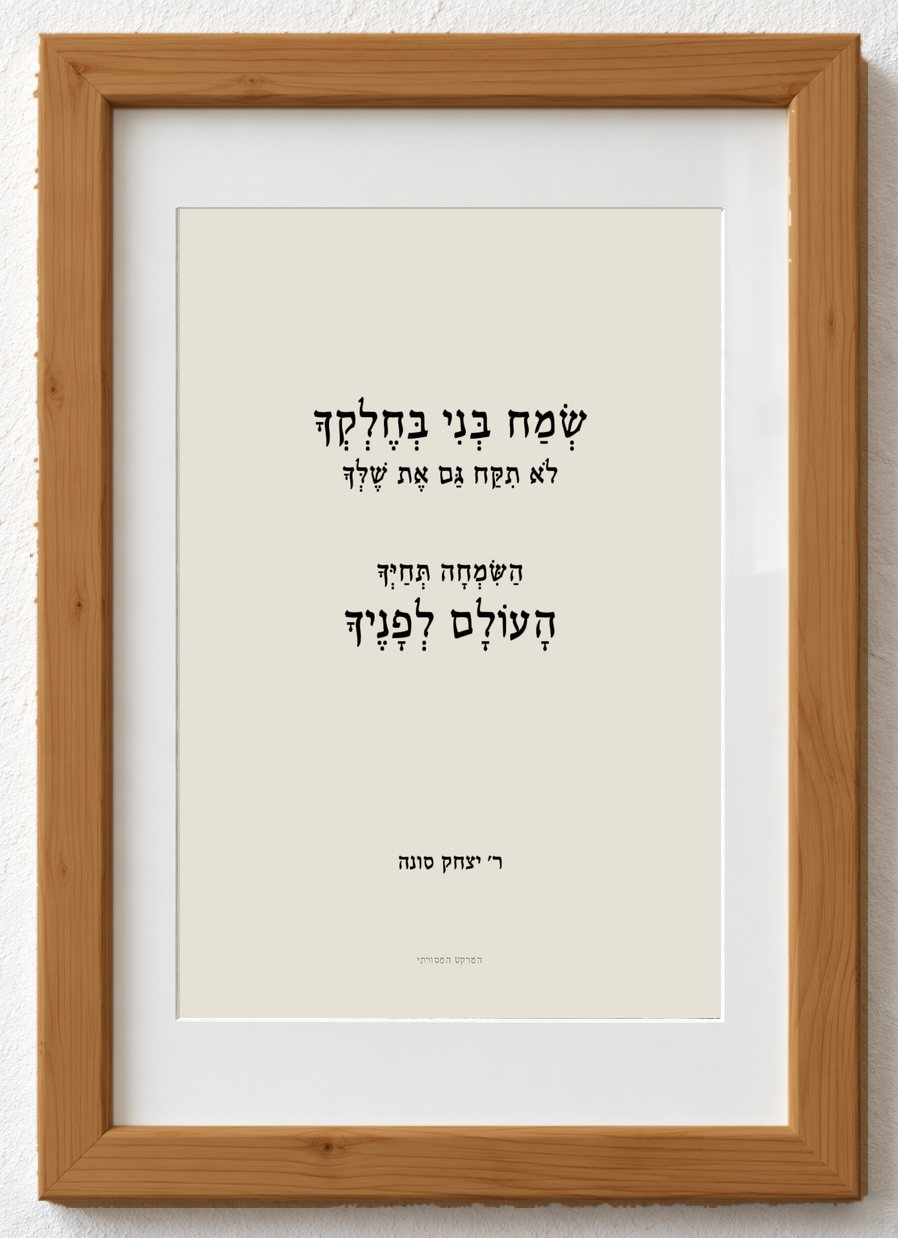
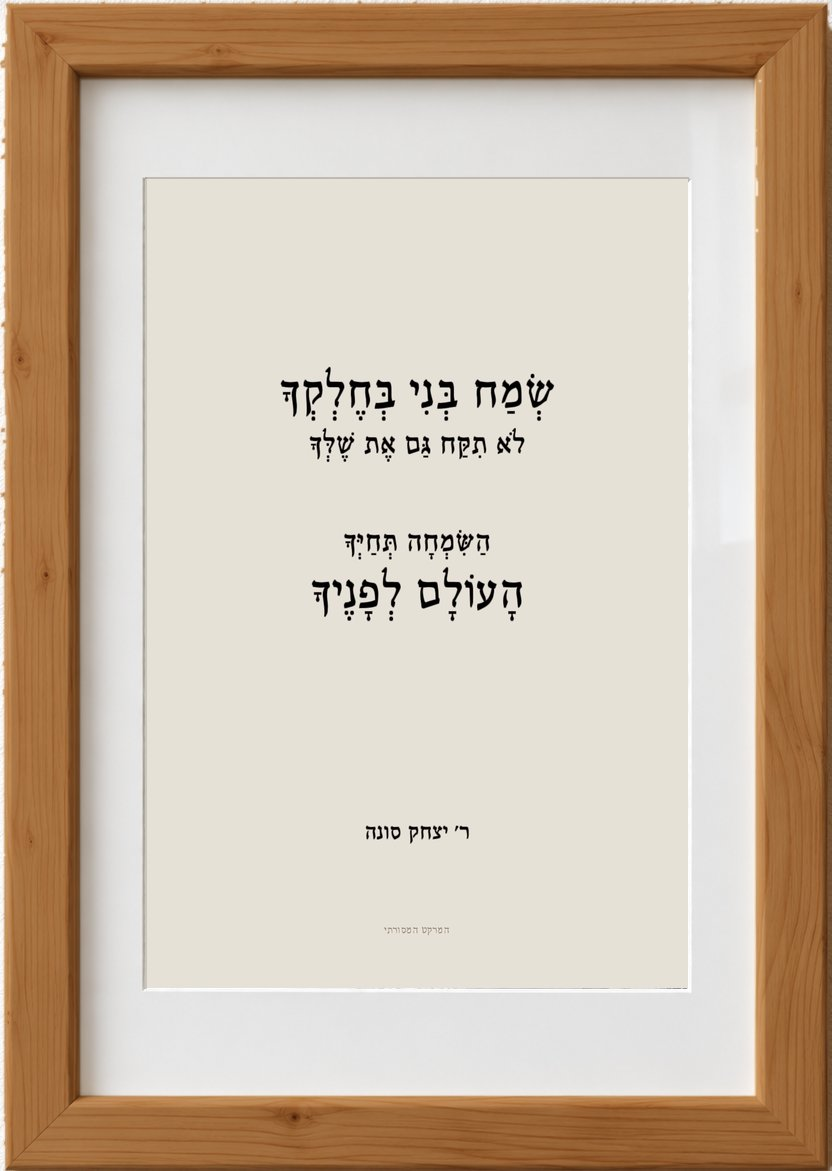
Shop: frames cut clean from the wall, look finished in light and dark mode
Claude-Session: https://claude.ai/code/session_01QSLAfrMeBEq27mRa4tKpiz

diff --git a/shop/index.html b/shop/index.html
@@ -3,7 +3,6 @@
 <head>
 <meta charset="utf-8">
 <meta name="viewport" content="width=device-width,initial-scale=1,viewport-fit=cover">
-<meta name="color-scheme" content="only light">
 <meta name="robots" content="noindex">
 <title>המרקט המסורתי</title>
 <link rel="preconnect" href="https://fonts.googleapis.com">
@@ -17,8 +16,14 @@
   --ok:#3E6B4A;
   --display:'Keter YG','Frank Ruhl Libre',serif;
   --body:'Assistant','Arial Hebrew',Arial,sans-serif;
-  color-scheme:only light; /* חנות בהירה בלבד: ההדפסים נראים כמו על קיר אמיתי */
+  color-scheme:light;
 }
+@media (prefers-color-scheme:dark){:root:not([data-theme="light"]){
+  --paper:#1C1A17; --wall:#24211D; --ink:#EFE8DC; --ink-soft:#B3A895; --sand:#C2A77C;
+  --line:rgba(239,232,220,.14); --card:#26231F; --accent:#D2B585; --ok:#8DBB97; color-scheme:dark}}
+:root[data-theme="dark"]{
+  --paper:#1C1A17; --wall:#24211D; --ink:#EFE8DC; --ink-soft:#B3A895; --sand:#C2A77C;
+  --line:rgba(239,232,220,.14); --card:#26231F; --accent:#D2B585; --ok:#8DBB97; color-scheme:dark}
 *{box-sizing:border-box}
 body{background:var(--paper);color:var(--ink);font-family:var(--body);font-size:17px;line-height:1.6;direction:rtl;font-synthesis:none}
 body::before{content:"";position:fixed;inset:0 0 auto;height:env(safe-area-inset-top,0px);z-index:10;background:var(--paper)}
@@ -64,8 +69,8 @@ nav a:hover{color:var(--ink)}
 .sec-h p{margin:0;color:var(--ink-soft)}
 .grid{display:grid;grid-template-columns:repeat(3,minmax(0,1fr));gap:40px 28px}
 .item{text-decoration:none;display:flex;flex-direction:column;gap:12px}
-.item .ph{background:var(--wall);overflow:hidden}
-.item img{width:100%;aspect-ratio:898/1238;object-fit:cover;display:block;transition:transform .5s ease}
+.item .ph{overflow:hidden}
+.item img{width:100%;aspect-ratio:832/1171;object-fit:cover;display:block;transition:transform .5s ease}
 .item:hover img{transform:scale(1.03)}
 .item h3{font-size:28px;line-height:1.2}
 .item .sub{color:var(--ink-soft);font-size:15px;margin-top:-6px}
@@ -75,10 +80,10 @@ nav a:hover{color:var(--ink)}
 /* עמוד מוצר */
 .pp{display:grid;grid-template-columns:1.1fr 1fr;gap:48px;padding-block:40px 64px;align-items:start}
 .pp>div{min-width:0}
-.pp .main{background:var(--wall)}
-.pp .main img{width:100%;aspect-ratio:898/1238;object-fit:cover;display:block}
+.pp .main{}
+.pp .main img{width:100%;aspect-ratio:832/1171;object-fit:cover;display:block}
 .pp .main a{display:block;cursor:zoom-in}
-.singles{display:grid;grid-template-columns:repeat(3,1fr);gap:8px;margin-top:10px}.singles img{width:100%;aspect-ratio:898/1238;object-fit:cover;display:block}
+.singles{display:grid;grid-template-columns:repeat(3,1fr);gap:8px;margin-top:10px}.singles img{width:100%;aspect-ratio:832/1171;object-fit:cover;display:block}
 @media (max-width:700px){.singles{display:flex;overflow-x:auto;scroll-snap-type:x mandatory;gap:10px;-webkit-overflow-scrolling:touch}.singles a{flex:0 0 82%;scroll-snap-align:center}}
 .thumbs{display:flex;gap:10px;margin-top:10px}
 .thumbs button{padding:0;border:1px solid transparent;background:none;width:76px}
@@ -259,7 +264,7 @@ function shop(){
       <a class="cta" href="#prints">בוחרים 2 או 3 הדפסים</a>
       <div class="facts"><span>זכוכית ופספרטו</span><span>מסגרת 20×30 ס״מ</span><span>משלוח חינם מ־2 תמונות</span></div>
     </div>
-    <a href="#trip"><img src="img/trip.jpg" alt="טריפטיך ממוסגר: אעופה אשכונה, צללית ילד ושמח בני" style="aspect-ratio:auto"></a>
+    <a href="#trip"><img src="img/trip.webp" alt="טריפטיך ממוסגר: אעופה אשכונה, צללית ילד ושמח בני" style="aspect-ratio:auto"></a>
   </section>
   <div class="deal"><div class="wrap">
     <div class="d"><span class="dn">הדפס 1</span><b>${nis(PRICE_FRAMED)}</b><span class="ds">ועוד משלוח</span></div>
@@ -278,7 +283,7 @@ function shop(){
   </section>
   <section class="wrap sec" id="joy" style="padding-top:0">
     <div class="sec-h"><h2>סדרת השמחות</h2><p>חתונה · בר מצווה · זוג ${nis(PAIR)}</p></div>
-    <img src="img/wedding.jpg" alt="בואי כלה במסגרת לבנה וישמח חתני במסגרת חומה כהה" style="width:100%;display:block;margin-bottom:28px">
+    <img src="img/wedding.webp" alt="בואי כלה במסגרת לבנה וישמח חתני במסגרת חומה כהה" style="width:100%;display:block;margin-bottom:28px">
     <div class="grid">${P.filter(p=>p.s==='joy').map(card).join('')}</div>
   </section>`;
 }
@@ -356,7 +361,7 @@ function cartView(){
     <div>
       <h1>העגלה</h1>
       ${cart.length?cart.map((x,i)=>{if(x.kind==='trip')return`
-        <div class="line"><img src="img/trip.jpg" alt=""><div><div class="n">טריפטיך אעופה אשכונה · הילד · שמח בני</div><div class="m">שלוש מסגרות עץ טבעי עם פספרטו · כמות ${x.q}</div></div><div class="r"><span>${nis(TRIPLE*x.q)}</span><button class="rm" type="button" data-i="${i}">הסרה</button></div></div>`;if(x.kind==='set'){const m=mixOf(x.c1,x.c2);return`
+        <div class="line"><img src="img/trip.webp" alt=""><div><div class="n">טריפטיך אעופה אשכונה · הילד · שמח בני</div><div class="m">שלוש מסגרות עץ טבעי עם פספרטו · כמות ${x.q}</div></div><div class="r"><span>${nis(TRIPLE*x.q)}</span><button class="rm" type="button" data-i="${i}">הסרה</button></div></div>`;if(x.kind==='set'){const m=mixOf(x.c1,x.c2);return`
         <div class="line">
           <img src="img/set.jpg" alt="">
           <div><div class="n">צבע + צבע</div>
@@ -468,7 +473,7 @@ function tripView(){
   let q=1;
   V.innerHTML=`
   <section class="wrap pp">
-    <div><div class="main"><img src="img/trip.jpg" alt="טריפטיך ממוסגר על הקיר" style="aspect-ratio:auto"></div>
+    <div><div class="main"><img src="img/trip.webp" alt="טריפטיך ממוסגר על הקיר" style="aspect-ratio:auto"></div>
       <div class="singles" aria-label="שלושת ההדפסים מקרוב">${[1,2,3].map(i=>`<a href="img/trip-${i}.jpg" target="_blank" rel="noopener"><img loading="lazy" src="img/trip-${i}.jpg" alt="${['אעופה אשכונה','הילד','שמח בני'][i-1]} במסגרת"></a>`).join('')}</div>
       <a class="back" href="#shop">חזרה לחנות</a></div>
     <div>
